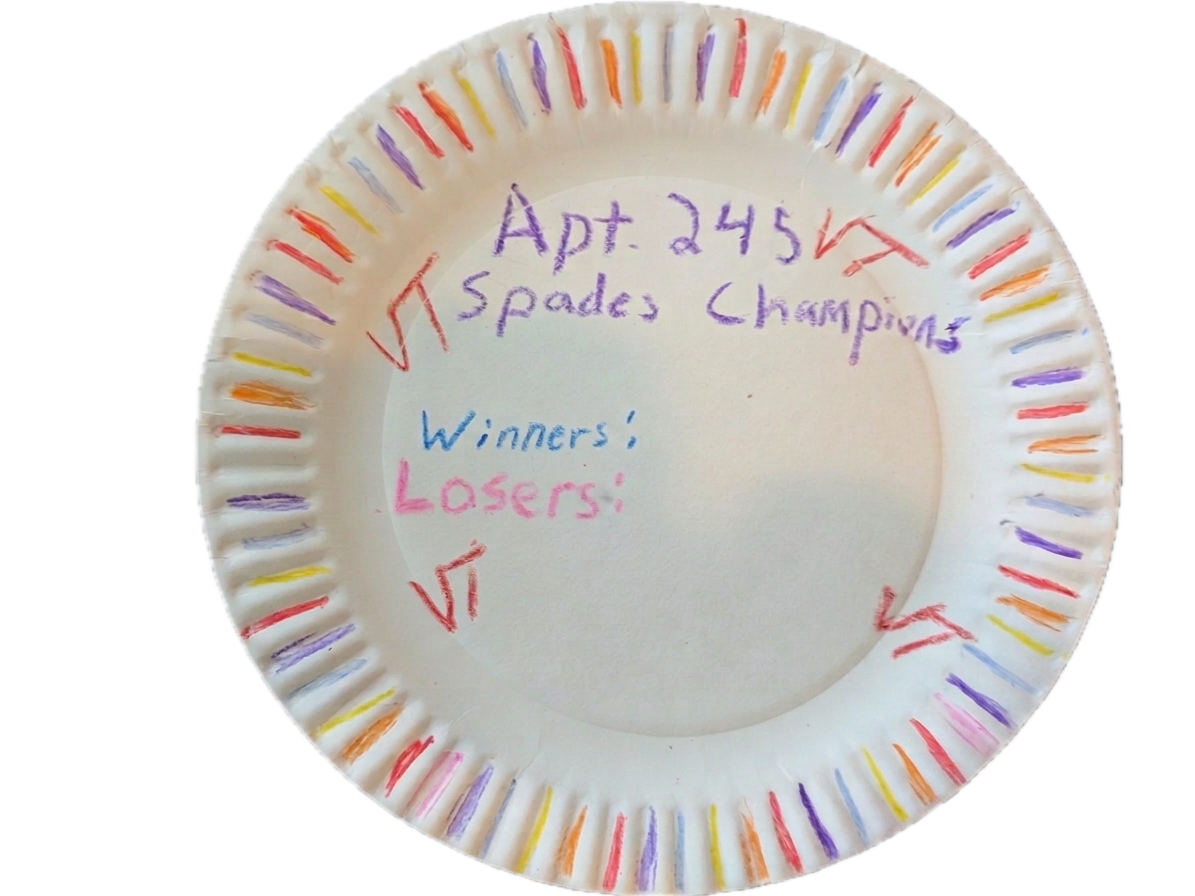
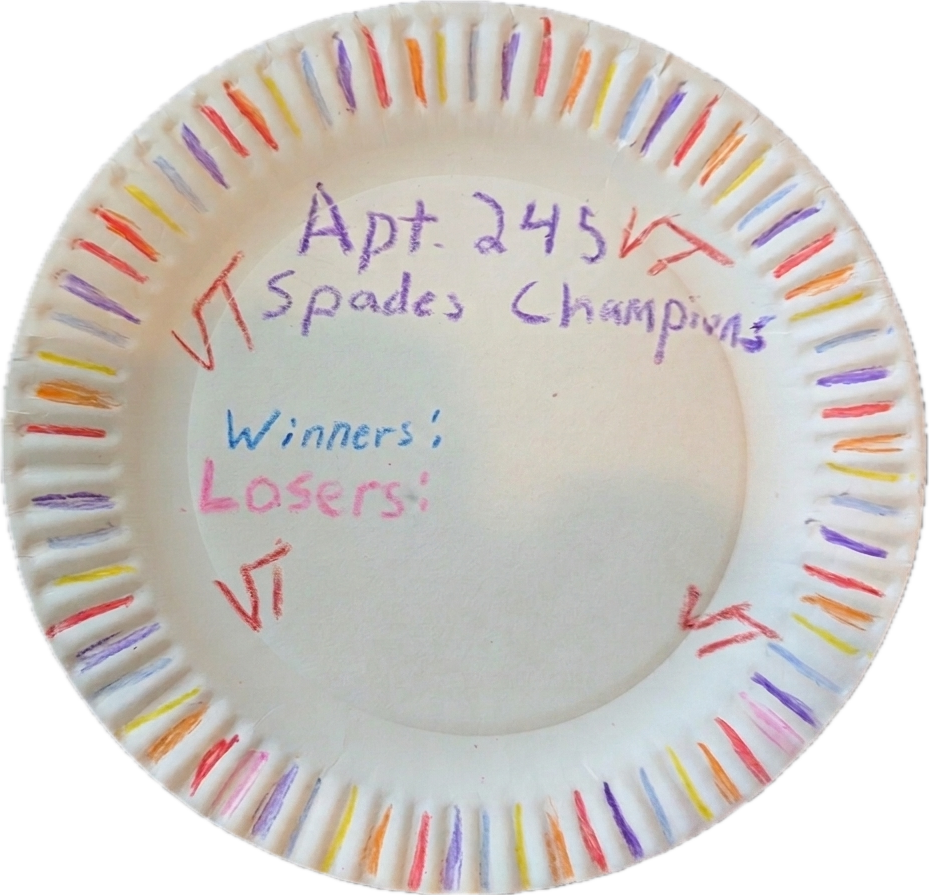
fix(champions): crop template to plate bbox so it centers in the modal
The source PNG had asymmetric transparent padding (195px left vs 71px
right), so the plate rendered visibly right-of-center. Crop the asset
tight to the plate's bounding box (929x895) and shift every text
coordinate by the crop offset (-195 x, -1 y) so placement is unchanged.

diff --git a/apps/client/src/components/game/ChampionsGraphic.tsx b/apps/client/src/components/game/ChampionsGraphic.tsx
@@ -2,11 +2,12 @@ import { useEffect, useRef } from 'react';
 import championsTemplate from '../../assets/champions.png';
 import markerFontUrl from '../../assets/fonts/permanent-marker.woff2';
 
-// The template PNG is a fixed-size paper-plate photo. All text coordinates
-// below are expressed in this native pixel space; the canvas is drawn at this
-// resolution and scaled down with CSS (`maxWidth: 100%`).
-const TEMPLATE_WIDTH = 1195;
-const TEMPLATE_HEIGHT = 896;
+// The template PNG is a paper-plate photo cropped tight to the plate's
+// bounding box (no transparent padding, so it centers cleanly in the modal).
+// All text coordinates below are expressed in this native pixel space; the
+// canvas is drawn at this resolution and scaled down with CSS (`maxWidth: 100%`).
+const TEMPLATE_WIDTH = 929;
+const TEMPLATE_HEIGHT = 895;
 
 const FONT_FAMILY = 'ChampionsMarker';
 
@@ -17,8 +18,8 @@ const FONT_FAMILY = 'ChampionsMarker';
 const FIELDS = {
   // Between "Spades Champions" and "Winners:".
   date: {
-    x: 675,
-    y: 378,
+    x: 480,
+    y: 377,
     size: 44,
     align: 'center' as const,
     maxWidth: 520,
@@ -26,8 +27,8 @@ const FIELDS = {
   },
   // Right of "Winners:" (blue, like the "Winners:" label).
   winner: {
-    x: 655,
-    y: 450,
+    x: 460,
+    y: 449,
     size: 52,
     align: 'left' as const,
     maxWidth: 440,
@@ -35,8 +36,8 @@ const FIELDS = {
   },
   // Right of "Losers:" (pink, like the "Losers:" label).
   loser: {
-    x: 645,
-    y: 513,
+    x: 450,
+    y: 512,
     size: 52,
     align: 'left' as const,
     maxWidth: 480,
@@ -44,8 +45,8 @@ const FIELDS = {
   },
   // Below "Losers:".
   score: {
-    x: 540,
-    y: 617,
+    x: 345,
+    y: 616,
     size: 56,
     align: 'left' as const,
     maxWidth: 620,